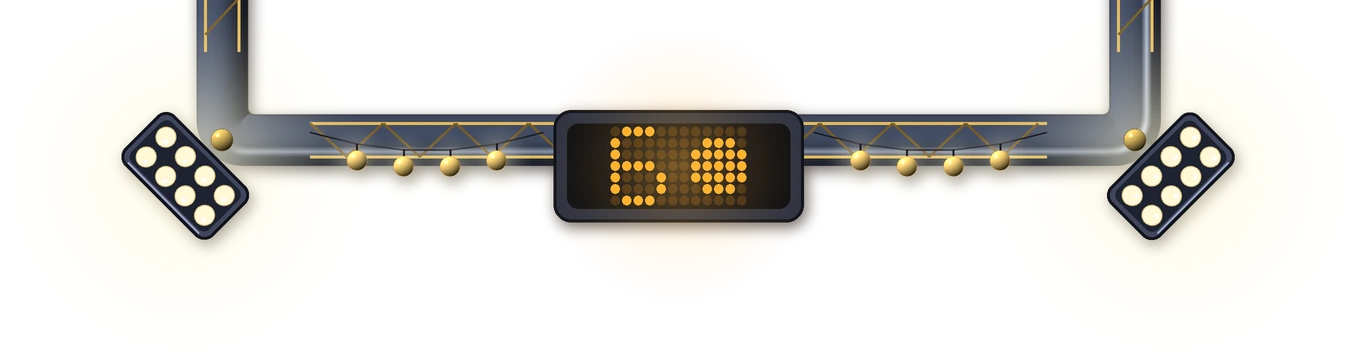
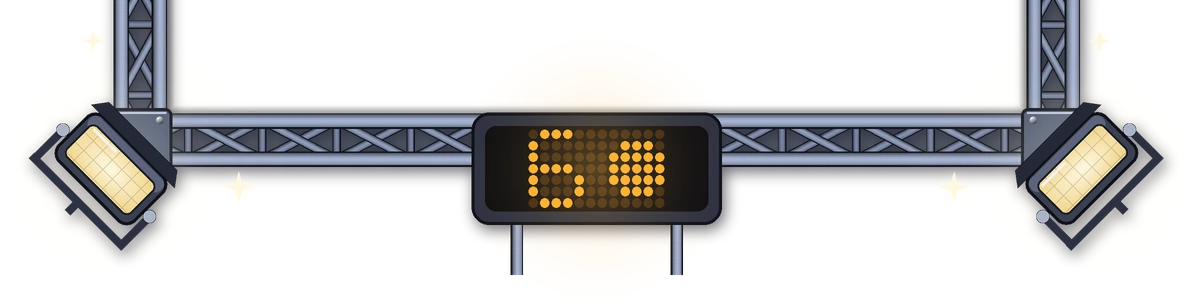
Floodlit border redesign: real floodlight heads, bold scaffold truss, no hanging bulbs
Claude-Session: https://claude.ai/code/session_01EnXvJ6P6HcGRxjBSnYPdAU

diff --git a/www/assets/v22.js b/www/assets/v22.js
@@ -70,7 +70,7 @@
 
   // ── 2. FINALS: a full league bar unlocks that league's Final; winning it lifts the cup and opens the next league
   const kfmt = n => n >= 1000 ? (Math.round(n / 100) / 10).toString().replace(/\.0$/, '') + 'K' : fmt(n);
-  const FRAMES = new Set([1, 2]), BADGES = new Set([...Array(27).keys()].map(i => i + 1)), FDIM = { 5: [0.25, 0.2214], 7: [0.3271, 0.24], 8: [0.4686, 0.3886], 2: [0.2756, 0.2668], 3: [0.3471, 0.3629], 4: [0.3257, 0.3529], 1: [0.2018, 0.2055], 6: [0.289, 0.2475], 16: [0.2241, 0.2241], 18: [0.2, 0.1834], 21: [0.228, 0.2052] };
+  const FRAMES = new Set([1, 2]), BADGES = new Set([...Array(27).keys()].map(i => i + 1)), FDIM = { 5: [0.25, 0.2214], 7: [0.3271, 0.24], 8: [0.4686, 0.3886], 2: [0.3135, 0.2557], 3: [0.3471, 0.3629], 4: [0.3257, 0.3529], 1: [0.2018, 0.2055], 6: [0.289, 0.2475], 16: [0.2241, 0.2241], 18: [0.2, 0.1834], 21: [0.228, 0.2052] };
   function F() { const f = sec('finals'); if (!f.won) { f.won = {}; f.ready = {}; const hi = highestLeagueIdx(); for (let i = 1; i < hi; i++) f.won[i] = 1; save(); } return f; }
   const finalWon = i => !!F().won[i], finalReady = i => !!F().ready[i] && !F().won[i];
   const cupsWon = () => Object.keys(F().won).filter(k => +k >= 1).length;
@@ -401,7 +401,7 @@
   .tcard .lockx.st.open .chn img.padb,.lockx.st.open img.padb{animation:none!important}
   .v2pz2 .g:not(.f){flex:0 0 40%!important}.v2pz2 .g:not(.f) .row{gap:4px;justify-content:space-around}.v2pz2 .g:not(.f) .row span{font-size:11.5px;letter-spacing:-.2px}.v2pz2 .g.f .row{gap:3px}.v2pz2 .g.f .row span{font-size:11.5px;letter-spacing:-.2px}
   .tcard.pt.tf:not([data-lg="6"]):not([data-lg="16"])::before{border-radius:28px}.tcard.pt.tf::after{z-index:40!important;pointer-events:none;--cw:calc(100cqw + 2 * var(--pad,22px));--fw:calc(var(--cw) * (1 + 2 * var(--fside,0)));left:calc(var(--cw) * var(--fside,0) * -1);right:calc(var(--cw) * var(--fside,0) * -1)}
-  .tcard.pt.tf[data-lg="1"]{--hl:0.1005;--hr:0.894;--ht:0.0968;--hb:0.1005}.tcard.pt.tf[data-lg="2"]{--hl:0.1828;--hr:0.8172;--ht:0.1916;--hb:0.1828}.tcard.pt.tf[data-lg="3"]{--hl:0.1014;--hr:0.9;--ht:0.2329;--hb:0.1557}.tcard.pt.tf[data-lg="4"]{--hl:0.1171;--hr:0.8814;--ht:0.2686;--hb:0.0929}.tcard.pt.tf[data-lg="5"]{--hl:0.0943;--hr:0.9057;--ht:0.1657;--hb:0.1314}.tcard.pt.tf[data-lg="6"]{--hl:0.088;--hr:0.912;--ht:0.2442;--hb:0.1346}.tcard.pt.tf[data-lg="7"]{--hl:0.1543;--hr:0.8443;--ht:0.2;--hb:0.1571}.tcard.pt.tf[data-lg="8"]{--hl:0.1557;--hr:0.8457;--ht:0.2514;--hb:0.1729}.tcard.pt.tf[data-lg="16"]{--hl:0.0833;--hr:0.9195;--ht:0.1609;--hb:0.1106}.tcard.pt.tf[data-lg="18"]{--hl:0.0539;--hr:0.9461;--ht:0.0705;--hb:0.0539}.tcard.pt.tf[data-lg="21"]{--hl:0.0539;--hr:0.9461;--ht:0.0984;--hb:0.0756}.tcard.pt.tf::after{--tw:calc(100cqw + 2 * var(--pad,22px));--fw:calc(var(--tw) / (var(--hr) - var(--hl)));left:calc(0px - var(--fw) * var(--hl))!important;right:auto!important;width:var(--fw)!important;top:calc(0px - var(--fw) * var(--ht))!important;bottom:calc(0px - var(--fw) * var(--hb))!important;z-index:40!important;pointer-events:none}
+  .tcard.pt.tf[data-lg="1"]{--hl:0.1005;--hr:0.894;--ht:0.0968;--hb:0.1005}.tcard.pt.tf[data-lg="2"]{--hl:0.1391;--hr:0.8609;--ht:0.2179;--hb:0.1601}.tcard.pt.tf[data-lg="3"]{--hl:0.1014;--hr:0.9;--ht:0.2329;--hb:0.1557}.tcard.pt.tf[data-lg="4"]{--hl:0.1171;--hr:0.8814;--ht:0.2686;--hb:0.0929}.tcard.pt.tf[data-lg="5"]{--hl:0.0943;--hr:0.9057;--ht:0.1657;--hb:0.1314}.tcard.pt.tf[data-lg="6"]{--hl:0.088;--hr:0.912;--ht:0.2442;--hb:0.1346}.tcard.pt.tf[data-lg="7"]{--hl:0.1543;--hr:0.8443;--ht:0.2;--hb:0.1571}.tcard.pt.tf[data-lg="8"]{--hl:0.1557;--hr:0.8457;--ht:0.2514;--hb:0.1729}.tcard.pt.tf[data-lg="16"]{--hl:0.0833;--hr:0.9195;--ht:0.1609;--hb:0.1106}.tcard.pt.tf[data-lg="18"]{--hl:0.0539;--hr:0.9461;--ht:0.0705;--hb:0.0539}.tcard.pt.tf[data-lg="21"]{--hl:0.0539;--hr:0.9461;--ht:0.0984;--hb:0.0756}.tcard.pt.tf::after{--tw:calc(100cqw + 2 * var(--pad,22px));--fw:calc(var(--tw) / (var(--hr) - var(--hl)));left:calc(0px - var(--fw) * var(--hl))!important;right:auto!important;width:var(--fw)!important;top:calc(0px - var(--fw) * var(--ht))!important;bottom:calc(0px - var(--fw) * var(--hb))!important;z-index:40!important;pointer-events:none}
   #v2deck .v2rail{gap:90px!important}
   .tcard.pt:not(.tf)::after{border:0!important;border-image:none!important}
   .tcard.pt.tf::before{inset:0!important;border-radius:4px!important}
